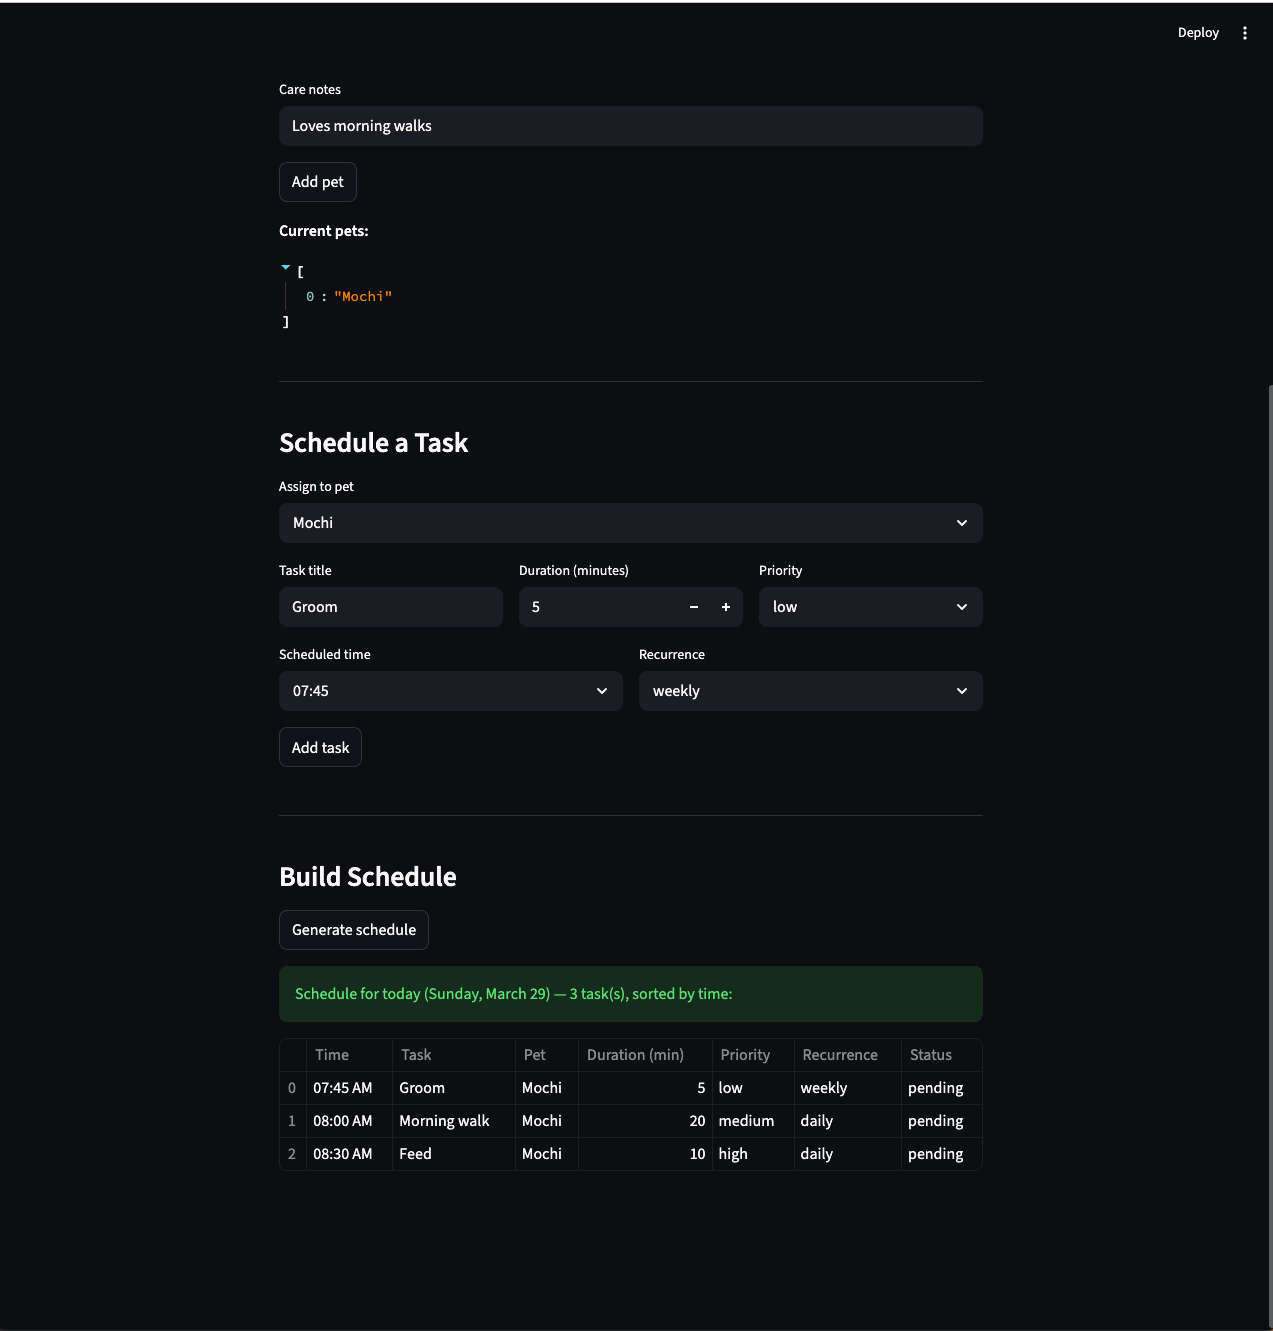
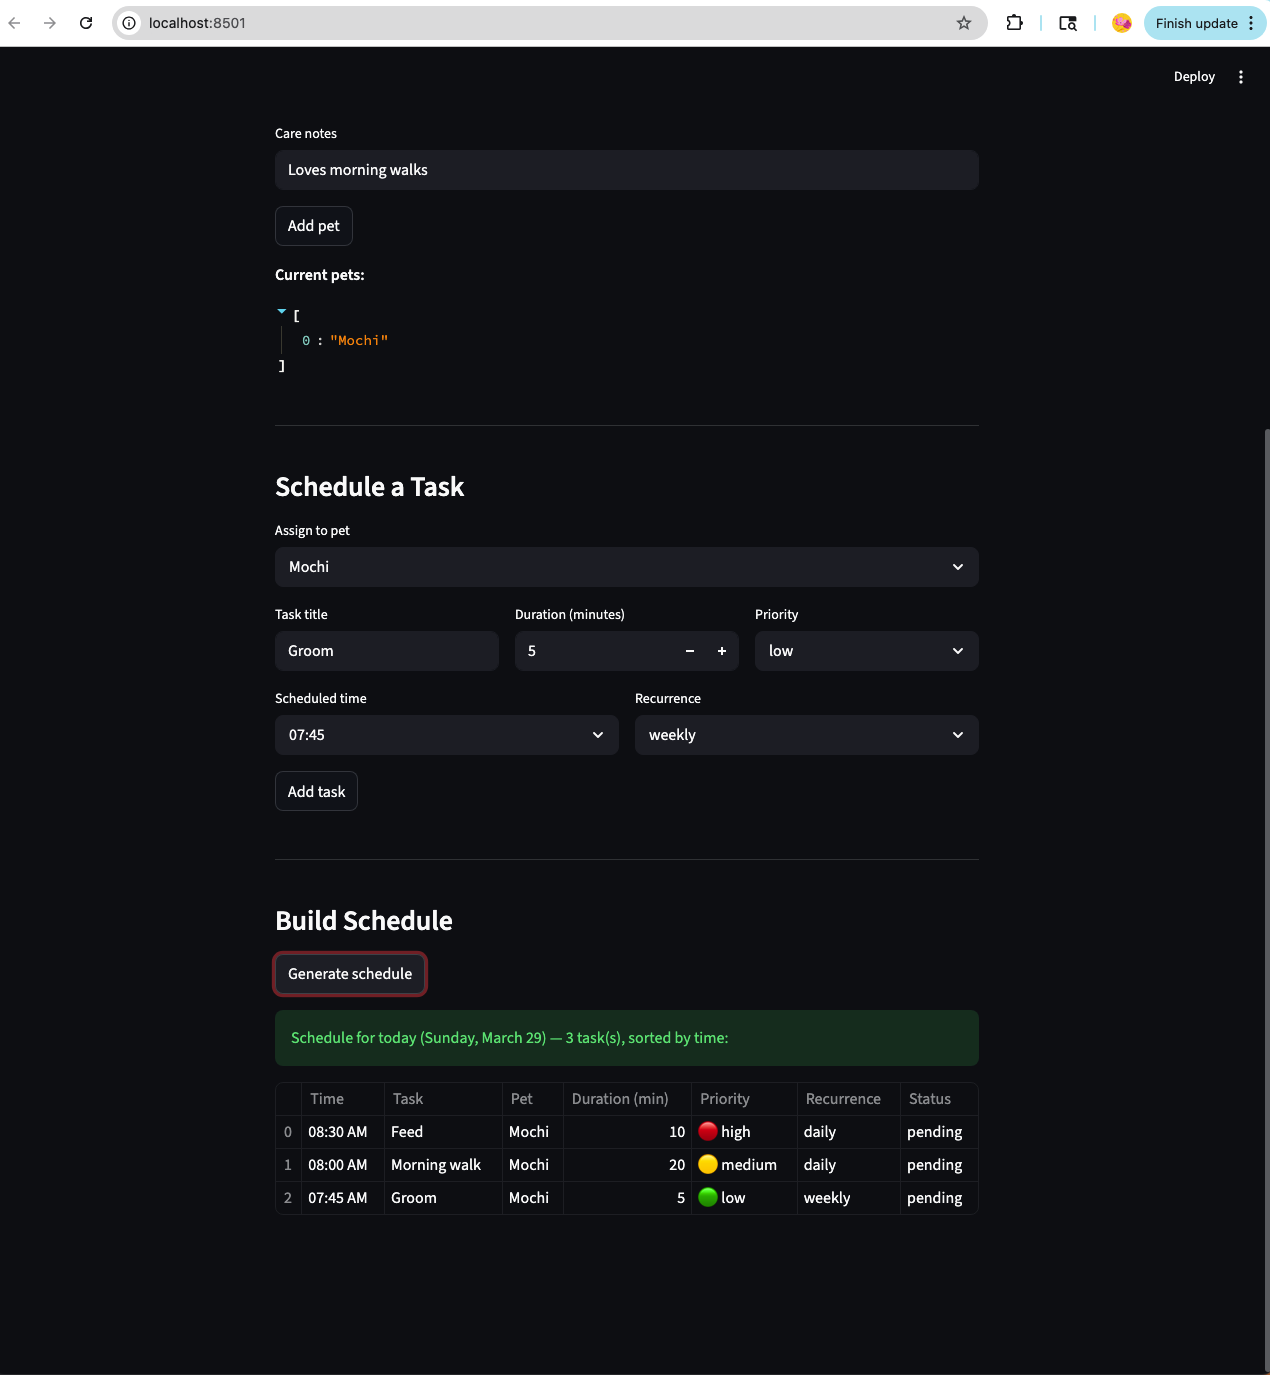
feat: implement Challenge 3: Advanced Priority Scheduling and UI

diff --git a/tests/test_pawpal.py b/tests/test_pawpal.py
@@ -72,9 +72,29 @@ def test_sort_by_time_returns_chronological_order(pet, scheduler):
     assert sorted_tasks[2].get_title() == "Walk"
 
 
-# --- Test 4: generate_daily_schedule is sorted ---
-def test_generate_daily_schedule_is_sorted(pet, scheduler):
-    """generate_daily_schedule should return today's tasks in time order."""
+# --- Test 4a: Priority-based sorting ---
+def test_generate_daily_schedule_sorts_by_priority_then_time(pet, scheduler):
+    """High priority tasks should appear before lower priority tasks, with time as tiebreaker."""
+    base = datetime.now().replace(hour=8, minute=0, second=0, microsecond=0)
+
+    t_low    = Task("Grooming", "low",    15, pet, base)                         # low,    08:00
+    t_high   = Task("Feed",     "high",   10, pet, base + timedelta(hours=1))    # high,   09:00
+    t_medium = Task("Walk",     "medium", 20, pet, base + timedelta(minutes=30)) # medium, 08:30
+
+    scheduler.add_task(t_low)
+    scheduler.add_task(t_high)
+    scheduler.add_task(t_medium)
+
+    schedule = scheduler.generate_daily_schedule(base)
+
+    assert schedule[0].get_title() == "Feed"      # high
+    assert schedule[1].get_title() == "Walk"      # medium
+    assert schedule[2].get_title() == "Grooming"  # low
+
+
+# --- Test 4b: Time sorting when priorities are equal ---
+def test_generate_daily_schedule_sorts_by_time_when_priority_equal(pet, scheduler):
+    """When tasks share the same priority, they should be sorted by scheduled time."""
     base = datetime.now().replace(hour=7, minute=0, second=0, microsecond=0)
 
     t1 = Task("Dinner",    "high", 10, pet, base + timedelta(hours=5))

diff --git a/app.py b/app.py
@@ -102,6 +102,7 @@ if st.button("Generate schedule"):
     schedule = st.session_state.scheduler.generate_daily_schedule(datetime.today())
     if schedule:
         st.success(f"Schedule for today ({datetime.today().strftime('%A, %B %d')}) — {len(schedule)} task(s), sorted by time:")
+        priority_emoji = {"high": "🔴 high", "medium": "🟡 medium", "low": "🟢 low"}
         rows = []
         for task in schedule:
             rows.append({
@@ -109,7 +110,7 @@ if st.button("Generate schedule"):
                 "Task": task.get_title(),
                 "Pet": task.get_assigned_pet().get_name(),
                 "Duration (min)": task.get_duration(),
-                "Priority": task.get_priority(),
+                "Priority": priority_emoji.get(task.get_priority(), task.get_priority()),
                 "Recurrence": task.get_frequency(),
                 "Status": task.get_status(),
             })

diff --git a/pawpal_system.py b/pawpal_system.py
@@ -211,8 +211,12 @@ class Scheduler:
         return None
 
     def generate_daily_schedule(self, date: datetime) -> list[Task]:
-        """Return tasks for the given date sorted by scheduled time."""
-        return sorted(self.get_tasks_for_day(date), key=lambda t: t.get_scheduled_time())
+        """Return tasks for the given date sorted by priority (high first), then by scheduled time."""
+        priority_order = {"high": 0, "medium": 1, "low": 2}
+        return sorted(
+            self.get_tasks_for_day(date),
+            key=lambda t: (priority_order.get(t.get_priority(), 3), t.get_scheduled_time())
+        )
 
     def mark_task_complete(self, task: Task) -> Task | None:
         """Mark a task complete and auto-schedule the next occurrence if recurring.

diff --git a/README.md b/README.md
@@ -50,6 +50,10 @@ The class diagram below shows how `Owner`, `Pet`, `Task`, and `Scheduler` relate
 
 ## 📸 Demo
 
+**App on startup:**
+
+<a href="assets/0_before_adding_a_pet.png" target="_blank"><img src="assets/0_before_adding_a_pet.png" title="App on Startup" width="100%" alt="App on Startup" /></a>
+
 **Adding a pet:**
 
 <a href="assets/add_a_pet.png" target="_blank"><img src="assets/add_a_pet.png" title="Add a Pet" width="100%" alt="Add a Pet" /></a>
@@ -64,7 +68,7 @@ The class diagram below shows how `Owner`, `Pet`, `Task`, and `Scheduler` relate
 
 <a href="assets/add_task_4_at_745_5min_success.png" target="_blank"><img src="assets/add_task_4_at_745_5min_success.png" title="Add Task 4 Success" width="100%" alt="Add Task 4 Success" /></a>
 
-**Generated schedule sorted by time:**
+**Generated schedule sorted by priority:**
 
 <a href="assets/generate_schedule.png" target="_blank"><img src="assets/generate_schedule.png" title="Generated Schedule" width="100%" alt="Generated Schedule" /></a>
 
@@ -72,10 +76,17 @@ The class diagram below shows how `Owner`, `Pet`, `Task`, and `Scheduler` relate
 
 PawPal+ includes algorithmic features that make scheduling more intelligent:
 
+- **Priority-based scheduling** — `generate_daily_schedule()` sorts tasks by priority first (🔴 high → 🟡 medium → 🟢 low), then by scheduled time as a tiebreaker. High-priority tasks always appear at the top of the daily plan regardless of when they are scheduled.
 - **Sorting** — Tasks are sorted by scheduled time (earliest first) using `Scheduler.sort_by_time()`.
 - **Filtering** — Tasks can be filtered by pet name (`filter_by_pet()`) or completion status (`filter_by_status()`), making it easy to view only what's relevant.
 - **Recurring tasks** — Tasks can be marked as `"daily"` or `"weekly"`. When completed via `Scheduler.mark_task_complete()`, the next occurrence is automatically scheduled using Python's `timedelta`.
 - **Conflict detection** — `Scheduler.add_task()` checks all existing tasks across all pets for time overlaps before adding a new task. If a conflict is found, a descriptive warning message is returned instead of silently skipping or crashing.
+
+## Optional Extension: Challenge 3 — Advanced Priority Scheduling
+
+This project implements **Challenge 3: Advanced Priority Scheduling and UI**.
+
+`generate_daily_schedule()` was updated to sort tasks by priority first (high → medium → low), using scheduled time as a tiebreaker when two tasks share the same priority. The Streamlit schedule table was updated to display color-coded priority emojis (🔴 high, 🟡 medium, 🟢 low) making it immediately clear which tasks need the most attention. A new test `test_generate_daily_schedule_sorts_by_priority_then_time` was added to verify the priority sort logic independently of the time sort.
 
 ## Testing PawPal+
 
@@ -87,19 +98,20 @@ python -m pytest tests/test_pawpal.py -v
 
 ### What the tests cover
 
-| Test | What it verifies |
-|------|-----------------|
-| `test_task_completion_changes_status` | `complete()` flips status from `pending` to `completed` |
-| `test_add_task_increases_pet_task_count` | Adding a task to a pet increments its task list |
-| `test_sort_by_time_returns_chronological_order` | `sort_by_time()` returns tasks earliest-first regardless of insertion order |
-| `test_generate_daily_schedule_is_sorted` | `generate_daily_schedule()` returns today's tasks in time order |
-| `test_daily_task_schedules_next_day` | Completing a daily task auto-creates the next occurrence 1 day later |
-| `test_weekly_task_schedules_next_week` | Completing a weekly task auto-creates the next occurrence 7 days later |
-| `test_non_recurring_task_returns_none` | Completing a one-time task returns `None` (no follow-up created) |
-| `test_add_task_detects_overlap` | Overlapping tasks trigger a `CONFLICT` warning and are not added |
-| `test_add_task_no_conflict_when_sequential` | Back-to-back tasks with no overlap are both added successfully |
-| `test_scheduler_handles_pet_with_no_tasks` | A pet with zero tasks does not crash `generate_daily_schedule` |
+| Test                                                       | What it verifies                                                            |
+| ---------------------------------------------------------- | --------------------------------------------------------------------------- |
+| `test_task_completion_changes_status`                      | `complete()` flips status from `pending` to `completed`                     |
+| `test_add_task_increases_pet_task_count`                   | Adding a task to a pet increments its task list                             |
+| `test_sort_by_time_returns_chronological_order`            | `sort_by_time()` returns tasks earliest-first regardless of insertion order |
+| `test_generate_daily_schedule_sorts_by_priority_then_time` | High priority tasks appear before lower priority ones; time breaks ties     |
+| `test_generate_daily_schedule_is_sorted`                   | `generate_daily_schedule()` returns today's tasks in time order             |
+| `test_daily_task_schedules_next_day`                       | Completing a daily task auto-creates the next occurrence 1 day later        |
+| `test_weekly_task_schedules_next_week`                     | Completing a weekly task auto-creates the next occurrence 7 days later      |
+| `test_non_recurring_task_returns_none`                     | Completing a one-time task returns `None` (no follow-up created)            |
+| `test_add_task_detects_overlap`                            | Overlapping tasks trigger a `CONFLICT` warning and are not added            |
+| `test_add_task_no_conflict_when_sequential`                | Back-to-back tasks with no overlap are both added successfully              |
+| `test_scheduler_handles_pet_with_no_tasks`                 | A pet with zero tasks does not crash `generate_daily_schedule`              |
 
 ### Confidence level
 
-★★★★★ — All 10 tests pass. Core behaviors (sorting, recurrence, conflict detection) and edge cases (empty task list, non-recurring tasks) are verified.
+★★★★★ — All 11 tests pass. Core behaviors (priority scheduling, sorting, recurrence, conflict detection) and edge cases (empty task list, non-recurring tasks) are verified.
